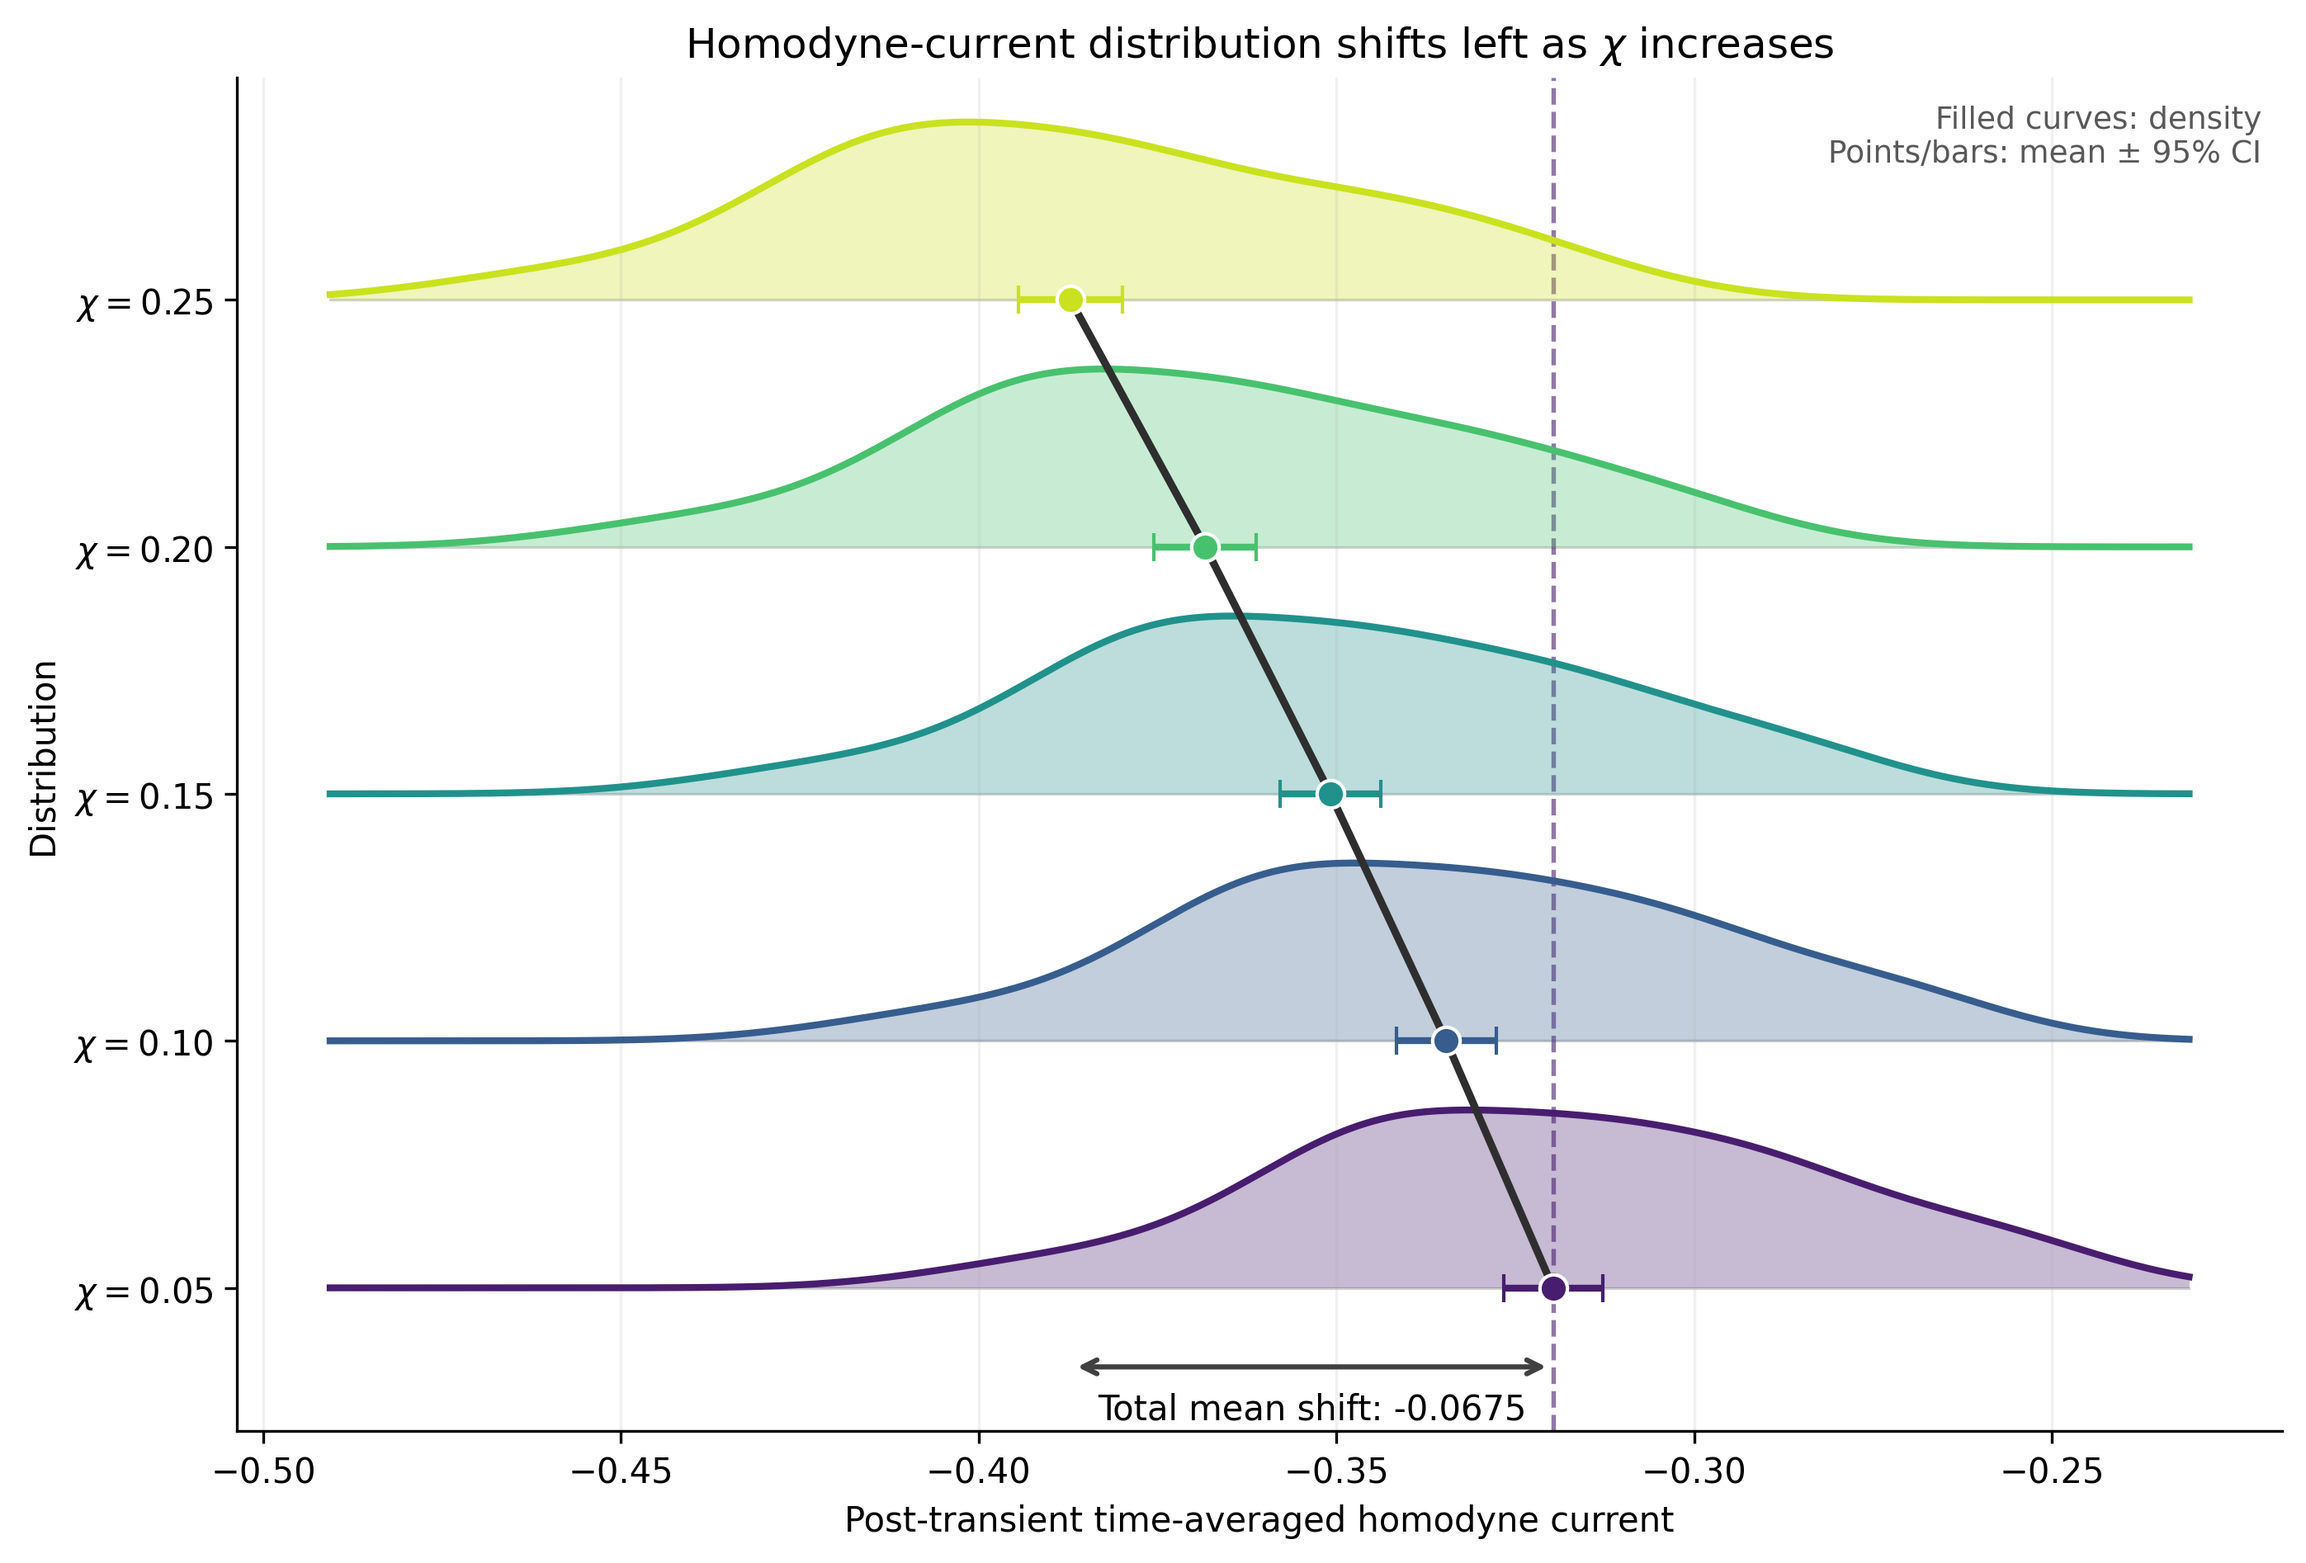
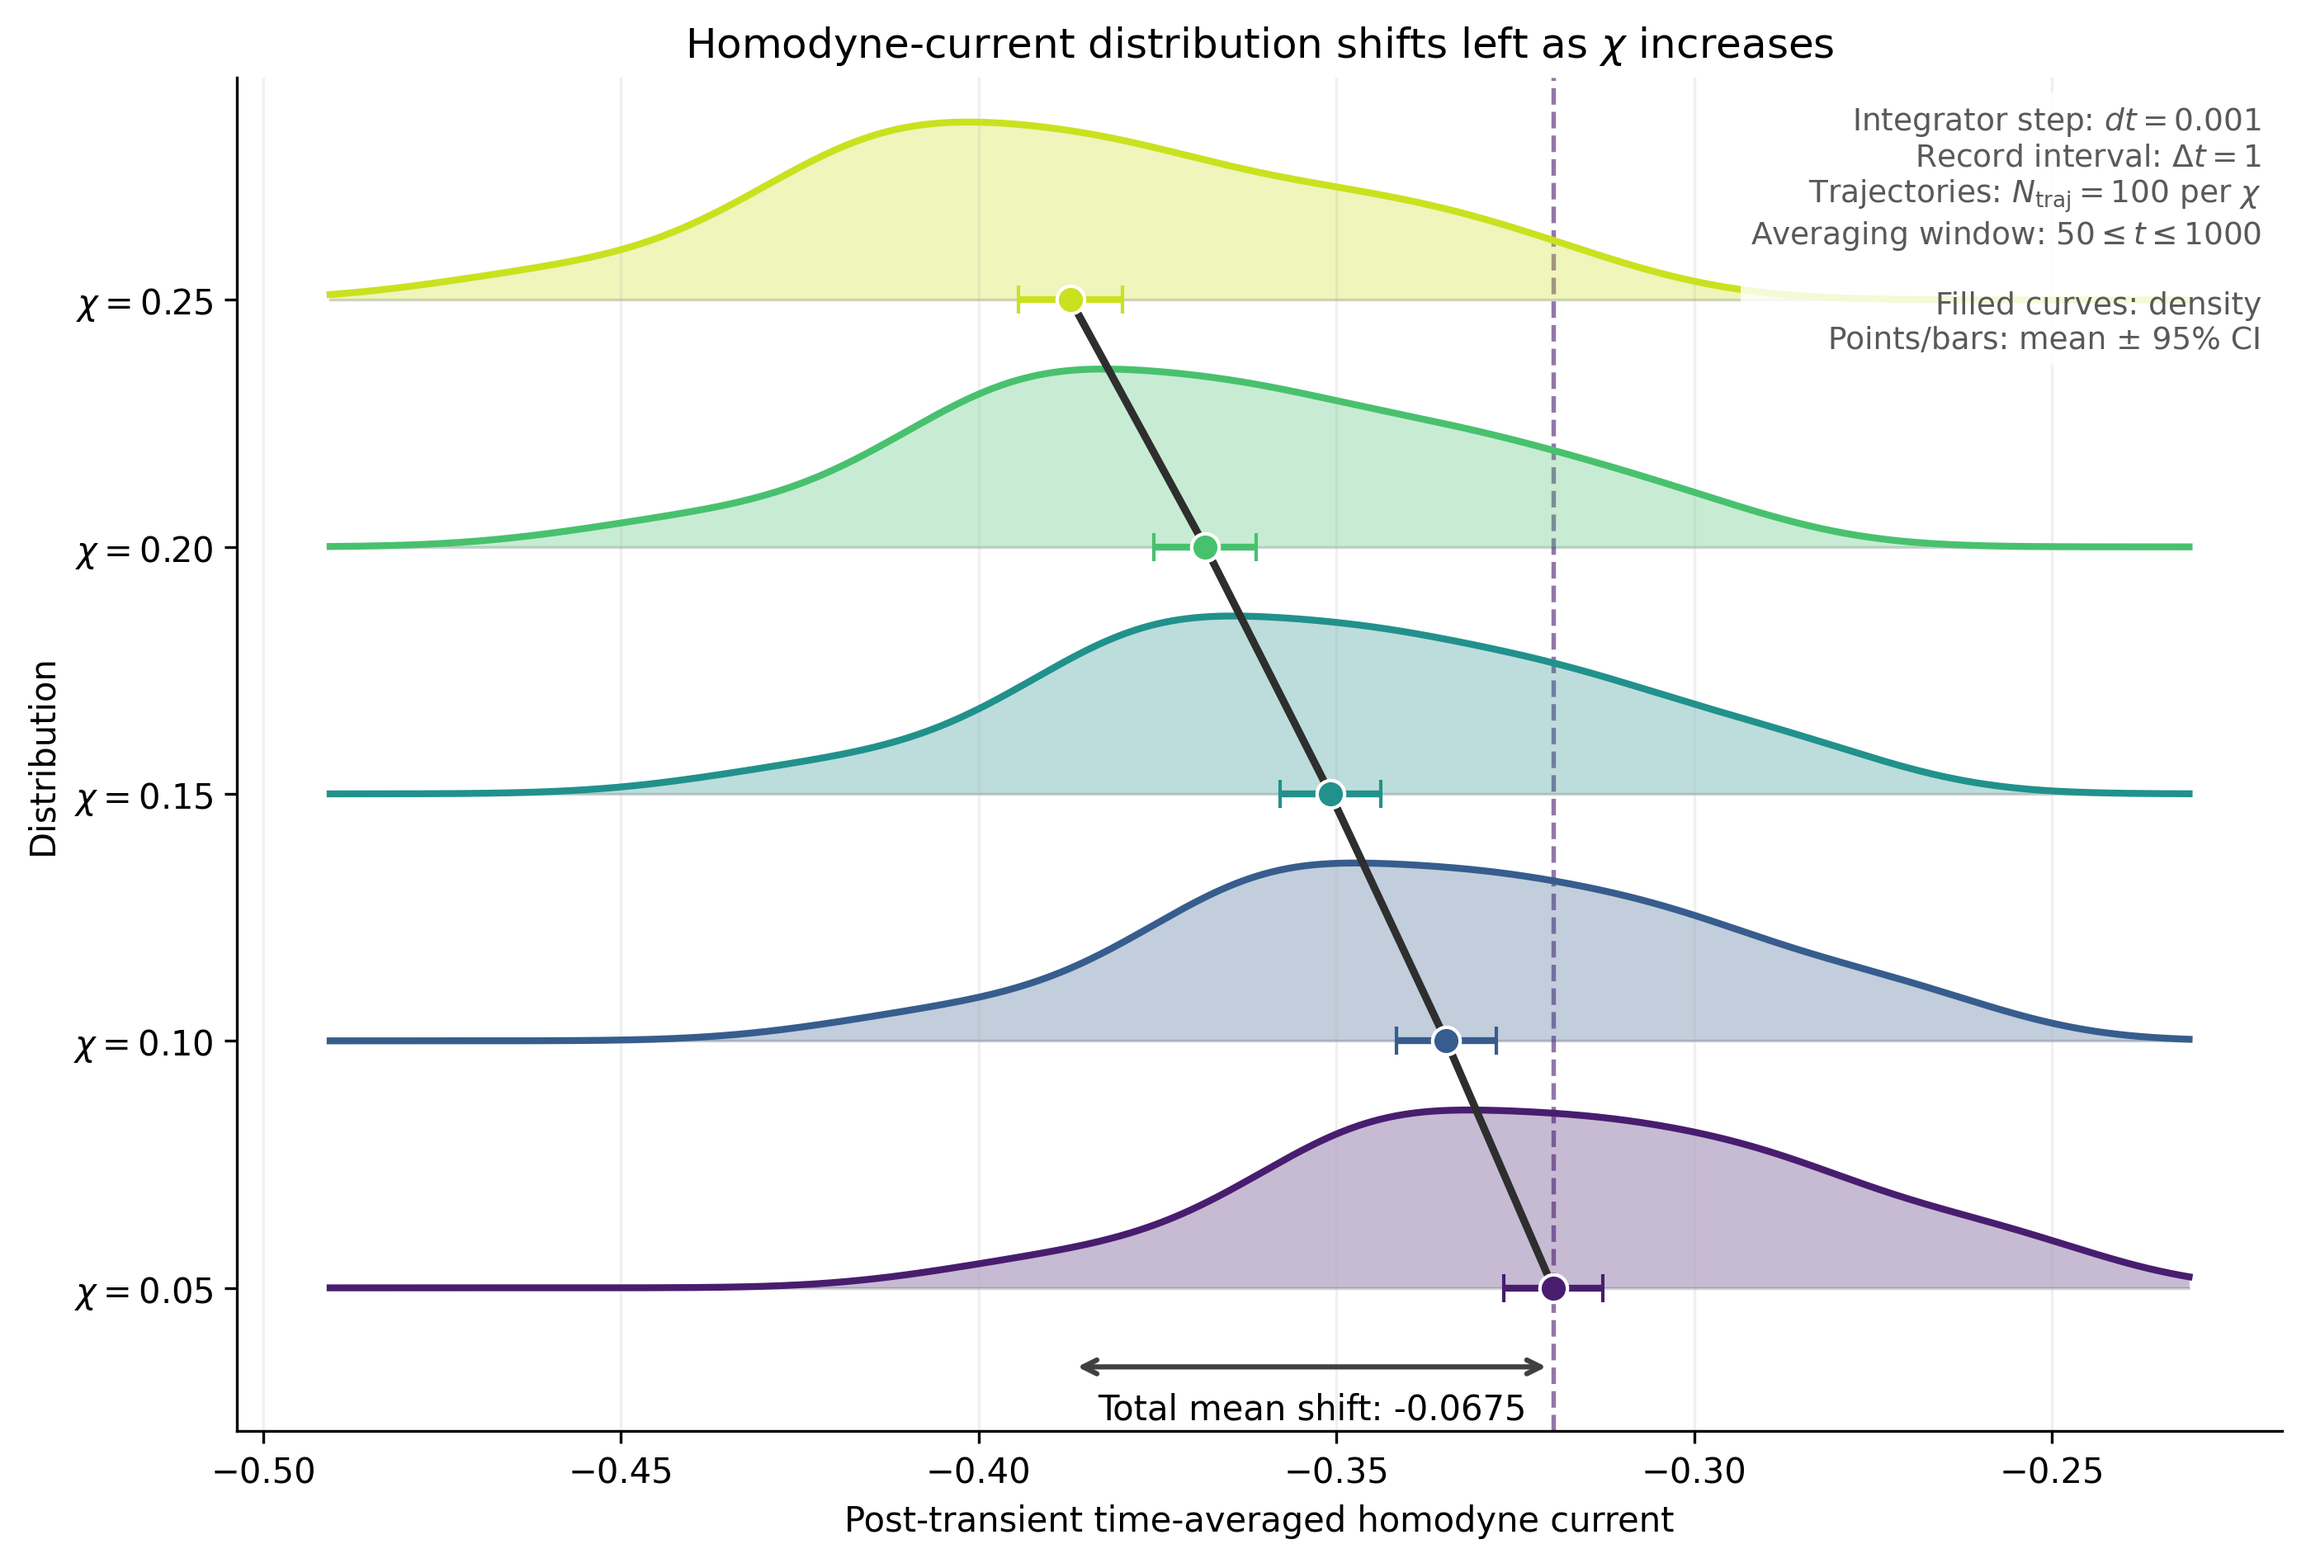
Annotate chi distribution figure parameters

Changed region(s): [[0.7785, 0.0623, 0.9964, 0.1558], [0.7473, 0.1869, 0.9964, 0.2181]]

diff --git a/chi_current_distributions.py b/chi_current_distributions.py
@@ -108,6 +108,12 @@ def simulate_current_averages(
 def save_plot(
     path: Path,
     data_by_chi: dict[float, np.ndarray],
+    *,
+    final_time: float,
+    output_dt: float,
+    internal_dt: float,
+    transient_time: float,
+    trajectories: int,
 ) -> None:
     """Use stacked densities and connected means to expose the shift."""
 
@@ -224,12 +230,20 @@ def save_plot(
     axis.text(
         0.99,
         0.98,
-        "Filled curves: density\nPoints/bars: mean ± 95% CI",
+        (
+            rf"Integrator step: $dt={internal_dt:g}$" "\n"
+            rf"Record interval: $\Delta t={output_dt:g}$" "\n"
+            rf"Trajectories: $N_{{\rm traj}}={trajectories}$ per $\chi$" "\n"
+            rf"Averaging window: ${transient_time:g}\leq t\leq{final_time:g}$"
+            "\n\n"
+            "Filled curves: density\nPoints/bars: mean ± 95% CI"
+        ),
         transform=axis.transAxes,
         ha="right",
         va="top",
         fontsize=9,
         color="0.35",
+        bbox={"facecolor": "white", "edgecolor": "none", "alpha": 0.82, "pad": 3},
     )
     figure.savefig(path, dpi=300, bbox_inches="tight")
     plt.close(figure)
@@ -311,7 +325,15 @@ def main() -> None:
             flush=True,
         )
 
-    save_plot(args.figure_output, data_by_chi)
+    save_plot(
+        args.figure_output,
+        data_by_chi,
+        final_time=args.final_time,
+        output_dt=args.output_dt,
+        internal_dt=args.internal_dt,
+        transient_time=args.transient_time,
+        trajectories=args.trajectories,
+    )
     save_summary(args.summary_output, data_by_chi)
     np.savez(
         args.samples_output,
